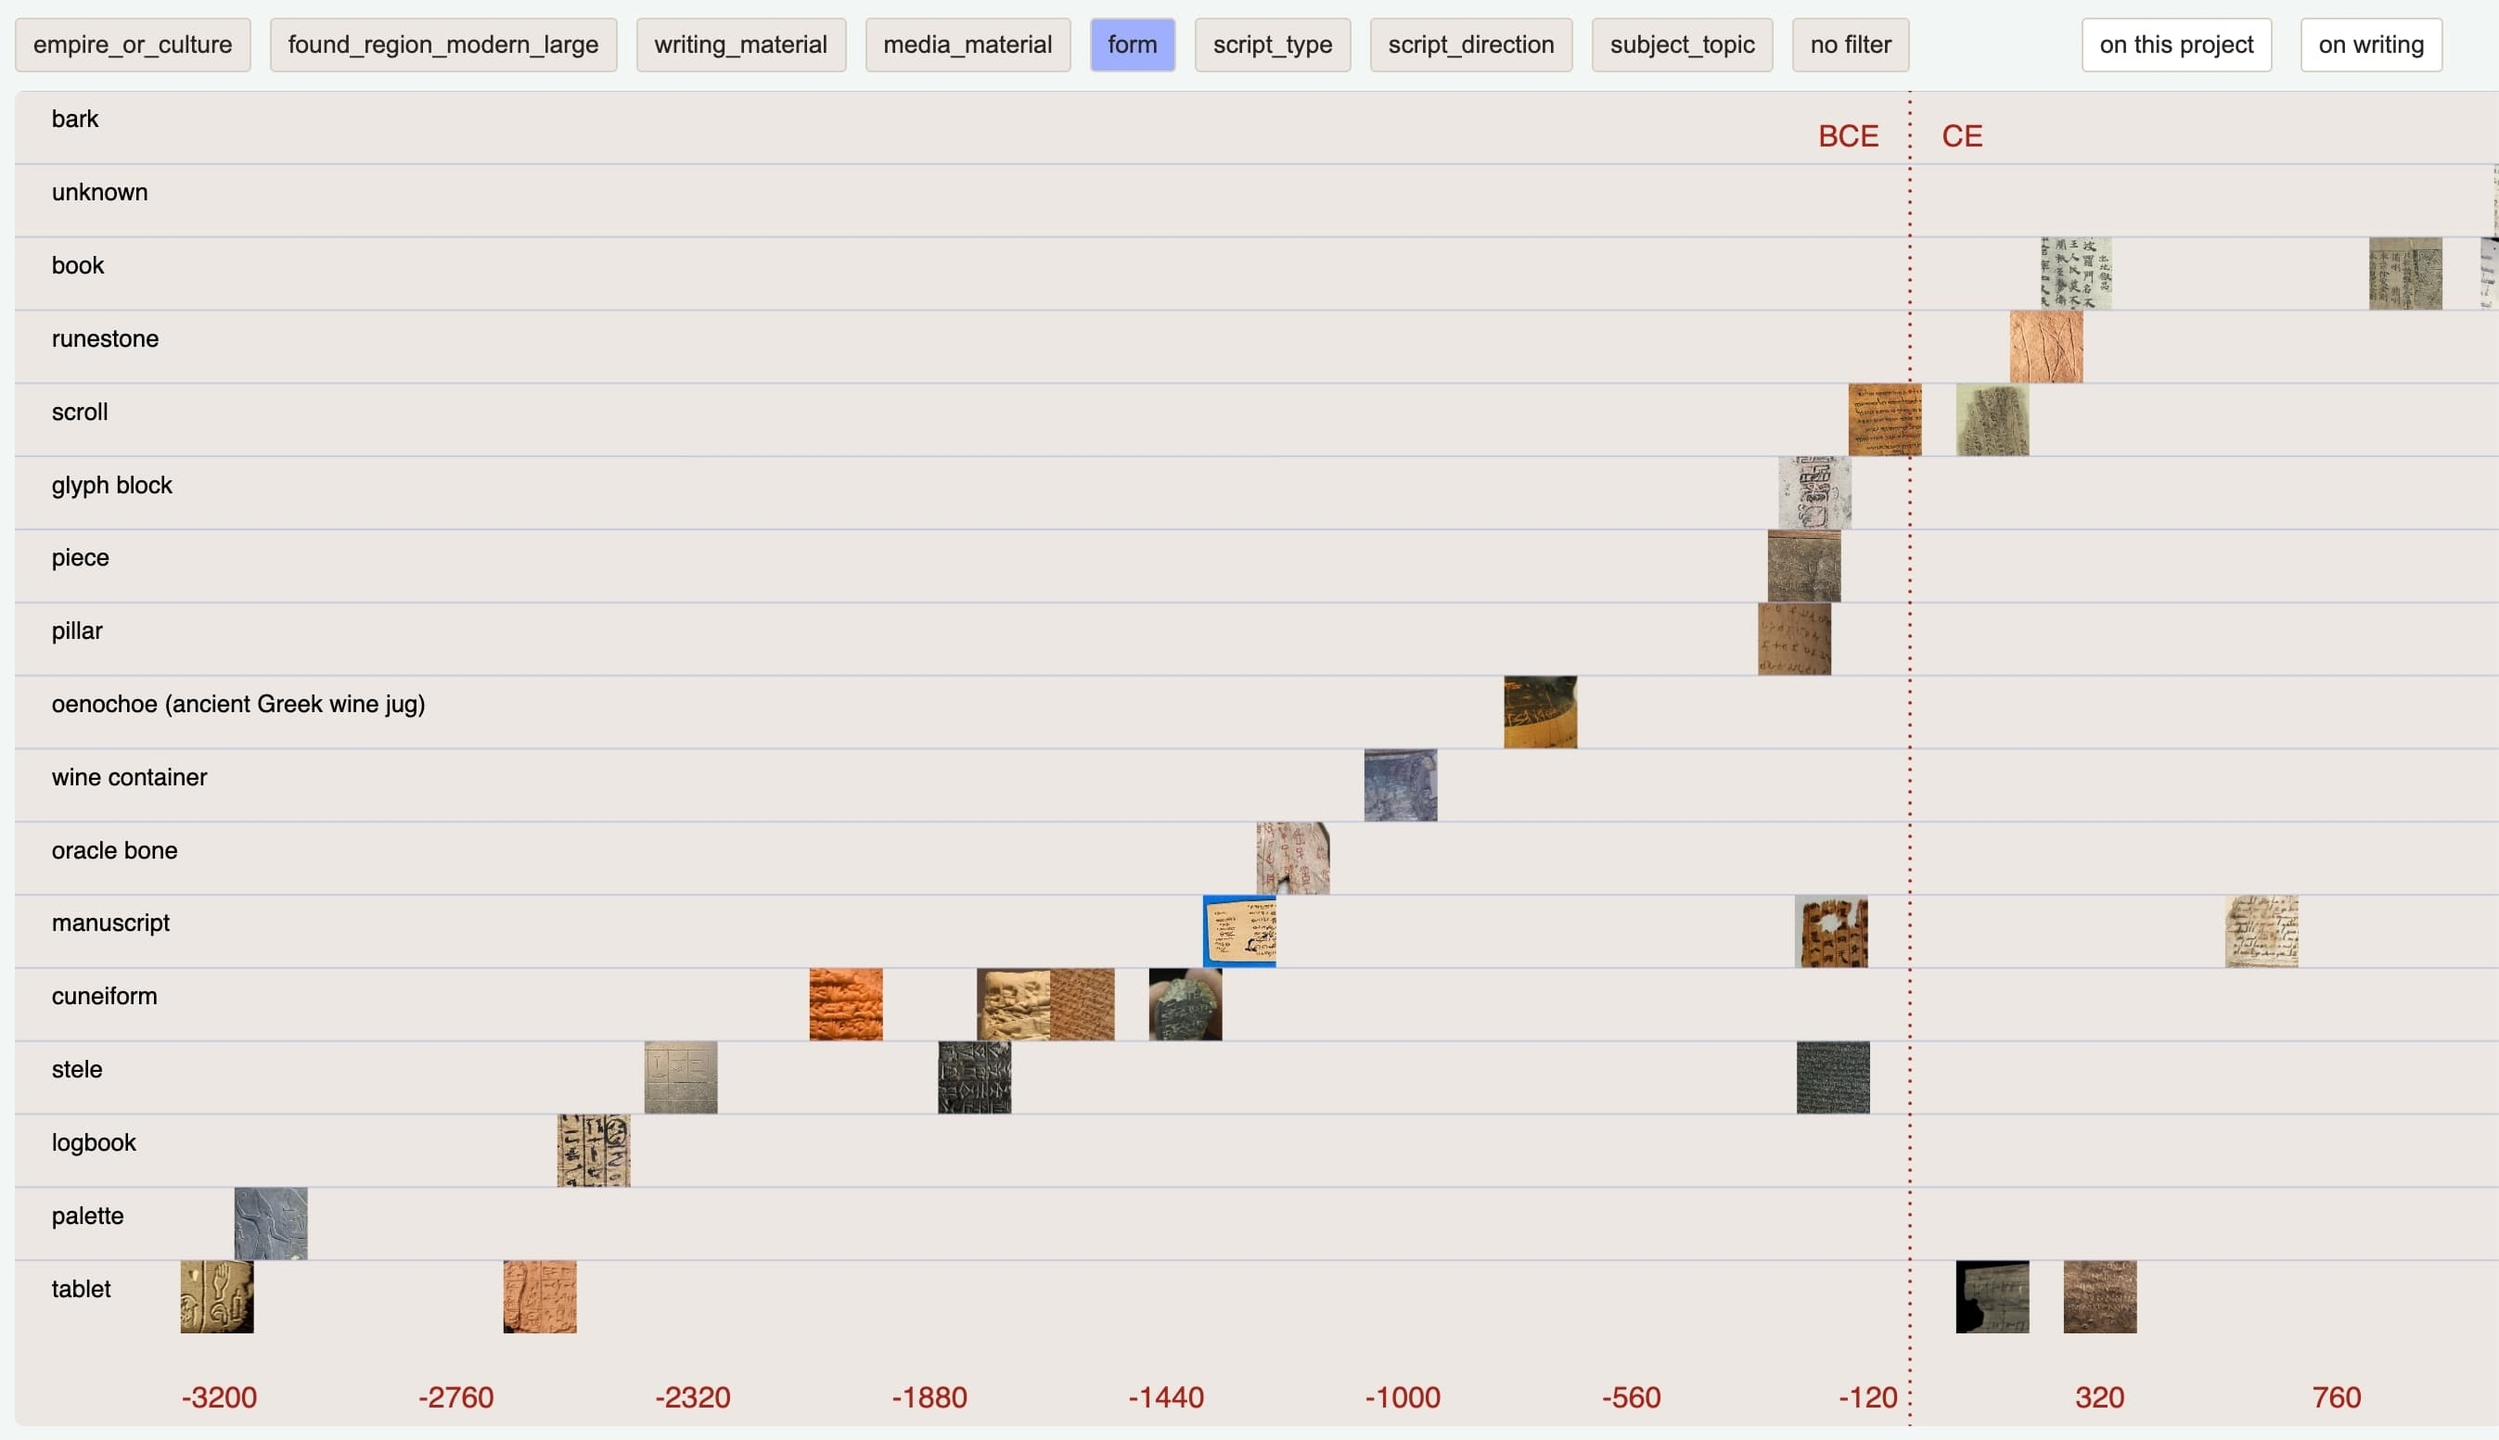
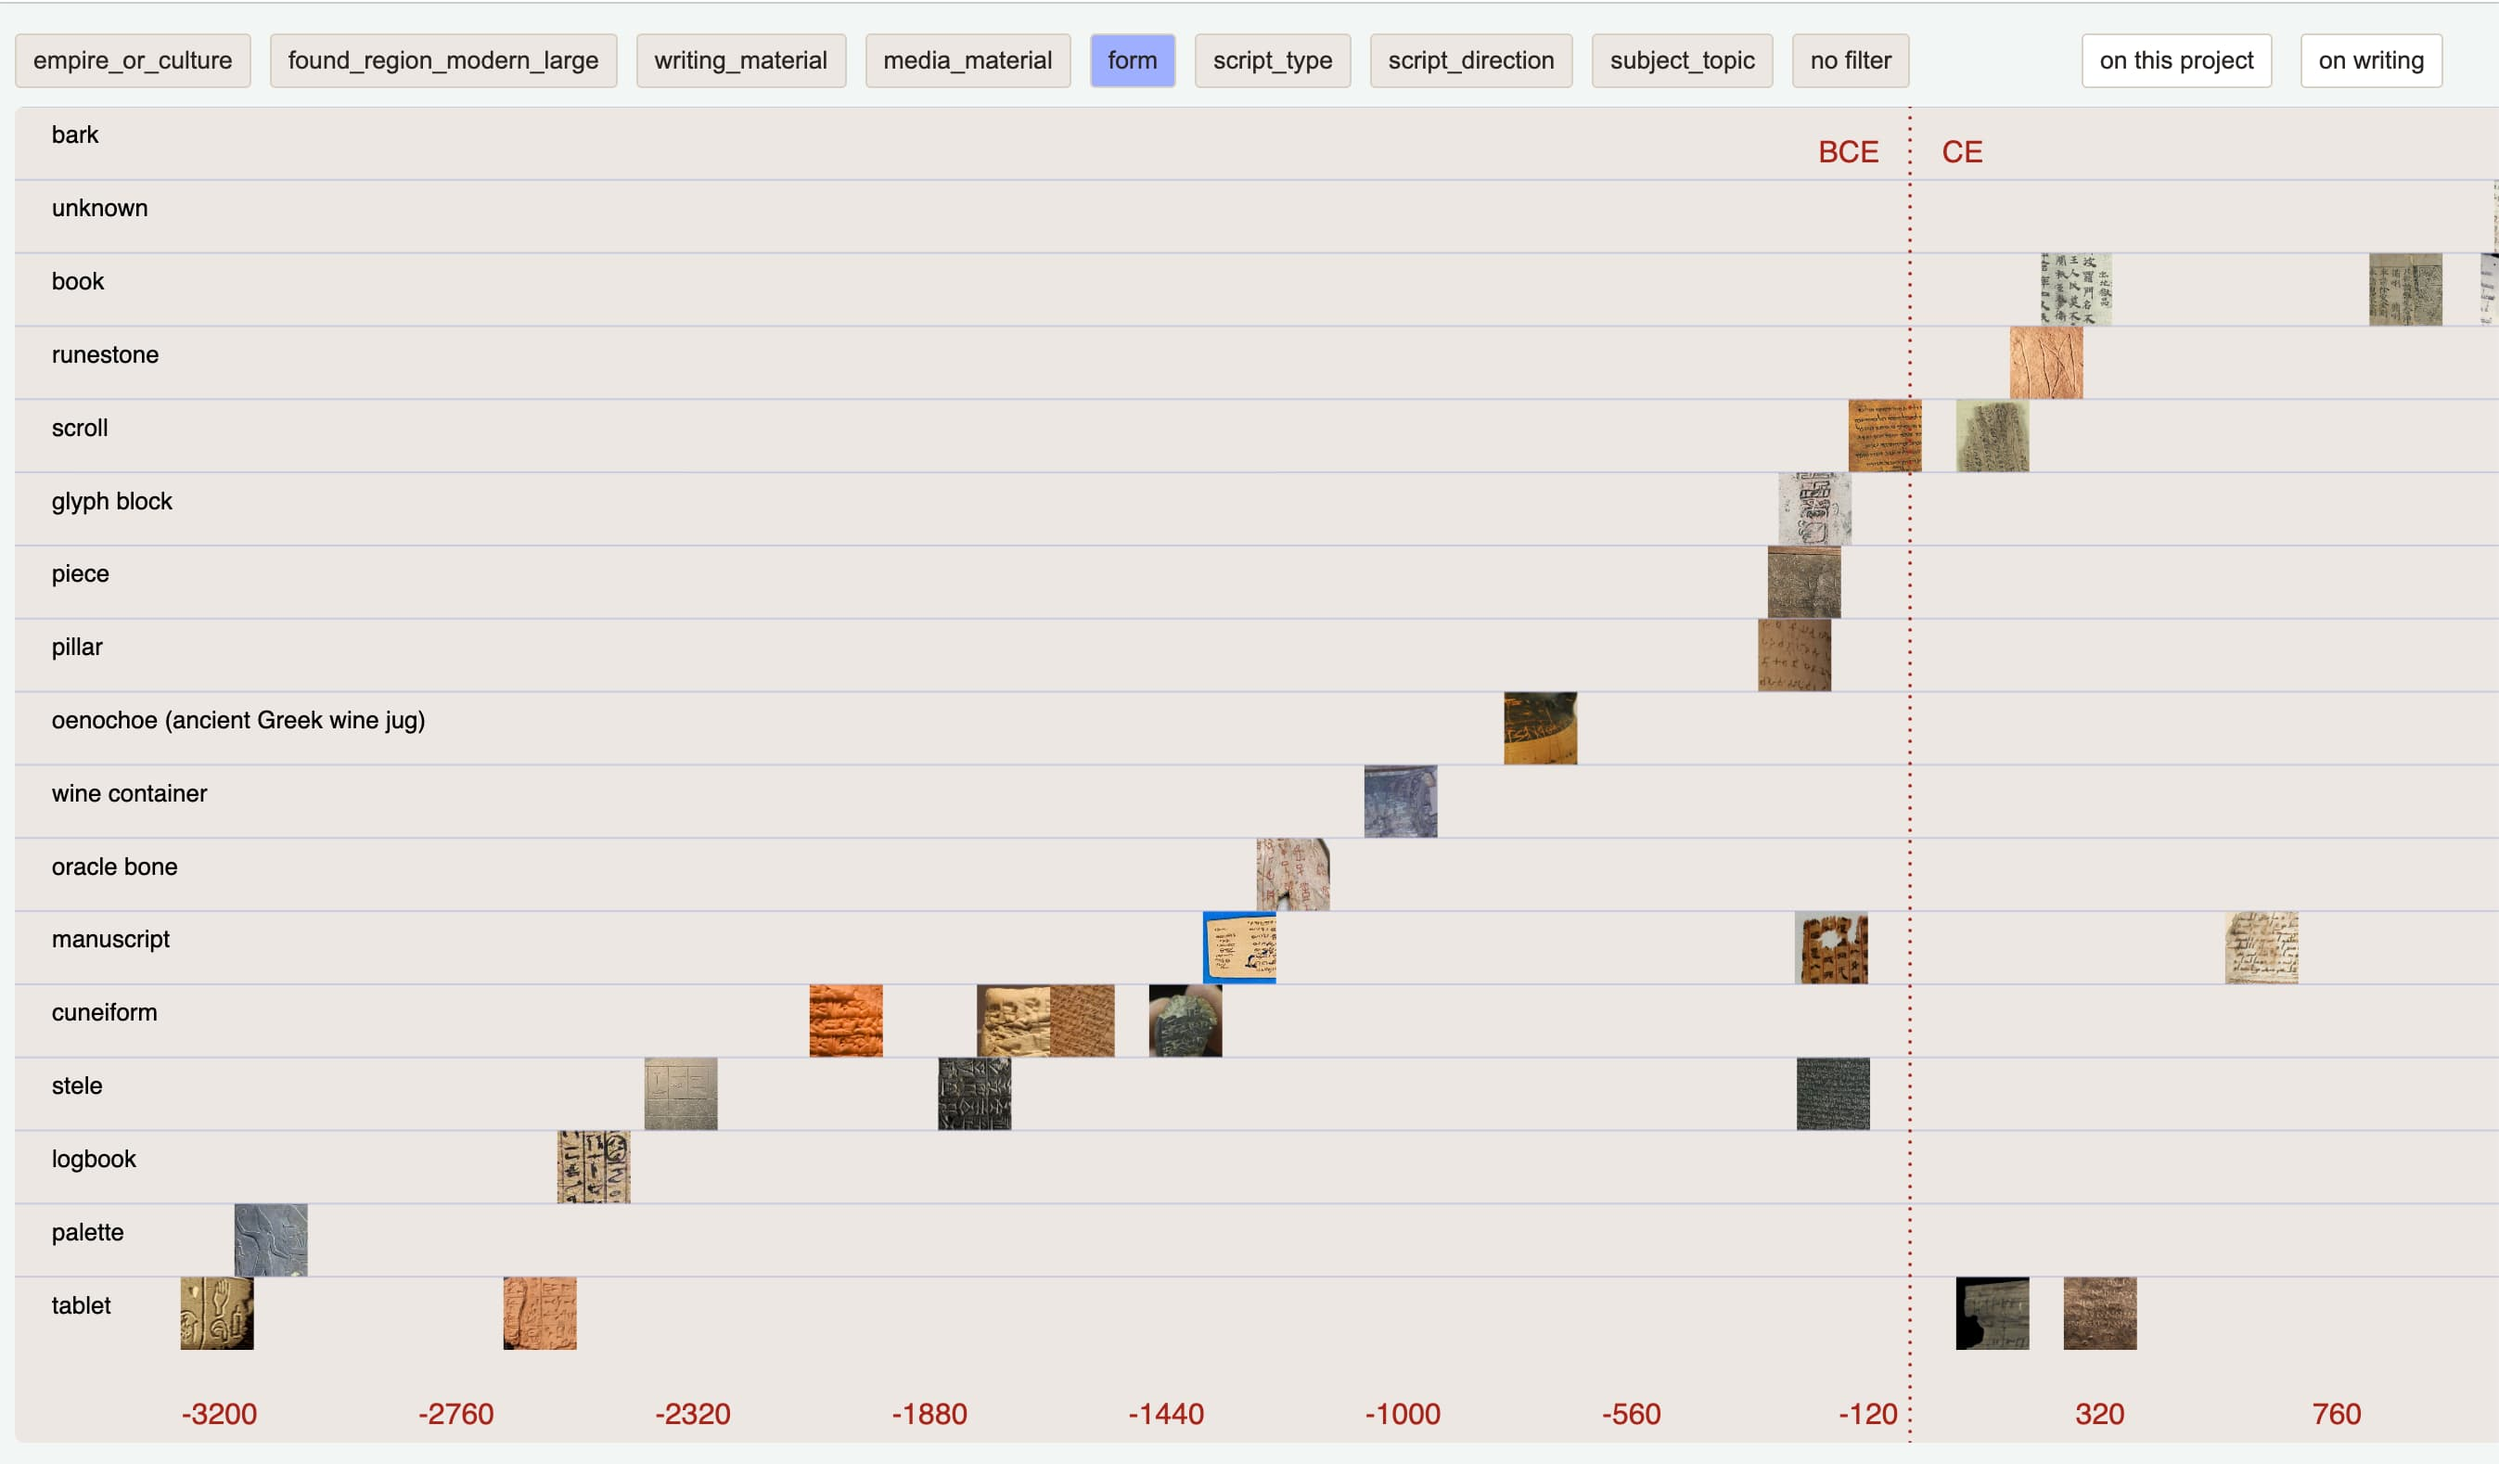
add more outlines

diff --git a/some_old_writings/script.js b/some_old_writings/script.js
@@ -293,6 +293,9 @@ var filters = d3.select("body")
                 var uniqueCategories = Object.keys(obj).filter(k => k !== 'yHeight')
                 var rowHeight = filter == "none" ? imageWidth : obj.yHeight   // single source of truth
 
+                var imgInset = Math.max(3, rowHeight * 0.12)
+                var imgSize = rowHeight - imgInset * 2
+
                 svg
                     .selectAll(".yLines")
                     .data(uniqueCategories)
@@ -320,6 +323,17 @@ var filters = d3.select("body")
                     .attr('stroke-dasharray', '2 4')
                     .attr('opacity', 0.8)
 
+                var timelineBorders = svg.selectAll(".image-border")
+                    .data(data)
+                    .join('rect')
+                    .attr("class", "image-border")
+                    .attr("fill", "none")
+                    .attr("stroke", "#a8241b")
+                    .attr("stroke-width", 2)
+                    .attr("rx", rowHeight * 0.1)
+                    .style("filter", "url(#squigglyBorder)")
+                    .lower()
+
                 var timeline = svg.selectAll("image")
                     .data(data)
                     .join('svg:image')
@@ -329,13 +343,14 @@ var filters = d3.select("body")
                         if (d._hovering) return
                         d._hovering = true
 
-                        let scaleFactor = imageZoomWidth / rowHeight
+                        let scaleFactor = imageZoomWidth / imgSize   // ← changed from rowHeight to imgSize
                         d3.select(this)
                             .style("transform", `scale(${scaleFactor})`)
                             .classed("top-layer", true)
                             .raise()
 
                         let bbox = this.getBBox()
+
                         let scaledWidth = bbox.width * scaleFactor
                         let scaledHeight = bbox.height * scaleFactor
                         let centerX = bbox.x + bbox.width / 2
@@ -399,54 +414,53 @@ var filters = d3.select("body")
                             .lower()
                     })
                     .on("click", function(e,d) {
-                    d3.selectAll(".description").remove();
+                        d3.selectAll(".description").remove();
 
-                    var modalDiv = d3.select("body").append("div")
-                        .attr("class", "description")
-                        .style("opacity", 1)
-                        .html(
-                            `<div class='modal-outline-wrapper'><div class='modal-content'><span class='close' onclick='closeModal()'>&times;</span><div class='flex-container'><div class='modal-img-container'><img class='modal-image' src='${image_names[data.indexOf(d)]}' /></div> <div class="modal-text"><b>${d.name}</b><br/> ${d.date} <br/><br/><div class="modal-text-content">Ruling state: ${d.empire_or_culture} <br/> ${d.period} <br/> Found in: ${d.found_region_origin}<br/> Currently in: ${d.current_city}, ${d.current_country}<br/><br/>Script type: ${d.script_type}<br/>Reading direction: ${d.script_direction}<br/><br/>Distance between origin and current location: ${d.distance_from_origin_km} km<br/><br/> ${d.description} <br/><br/>source(s):<br/>${d.source_url}<br/>${d.img_or_source2_url}<div class="modal-text-fade"></div></div><button class="see-more-btn" onclick="toggleModalText(this)">See more</button></div></div></div></div>`
-                            )
-                        .style("left", (d.x + 50 + "px"))
-                        .style("top", (d.y - 50 +"px"))
-                        .classed('modal', true)
-                        .style('display','flex')
-                        .on("click", function(event) {
-                            // only close if the click landed directly on the backdrop (this element),
-                            // not on the modal card or anything inside it
-                            if (event.target === this) {
-                                closeModal()
+                        var modalDiv = d3.select("body").append("div")
+                            .attr("class", "description")
+                            .style("opacity", 1)
+                            .html(
+                                `<div class='modal-outline-wrapper'><div class='modal-content'><span class='close' onclick='closeModal()'>&times;</span><div class='flex-container'><div class='modal-img-container'><img class='modal-image' src='${image_names[data.indexOf(d)]}' /></div> <div class="modal-text"><b>${d.name}</b><br/> ${d.date} <br/><br/><div class="modal-text-content">Ruling state: ${d.empire_or_culture} <br/> ${d.period} <br/> Found in: ${d.found_region_origin}<br/> Currently in: ${d.current_city}, ${d.current_country}<br/><br/>Script type: ${d.script_type}<br/>Reading direction: ${d.script_direction}<br/><br/>Distance between origin and current location: ${d.distance_from_origin_km} km<br/><br/> ${d.description} <br/><br/>source(s):<br/>${d.source_url}<br/>${d.img_or_source2_url}<div class="modal-text-fade"></div></div><button class="see-more-btn" onclick="toggleModalText(this)">See more</button></div></div></div></div>`
+                                )
+                            .style("left", (d.x + 50 + "px"))
+                            .style("top", (d.y - 50 +"px"))
+                            .classed('modal', true)
+                            .style('display','flex')
+                            .on("click", function(event) {
+                                // only close if the click landed directly on the backdrop (this element),
+                                // not on the modal card or anything inside it
+                                if (event.target === this) {
+                                    closeModal()
+                                }
+                            })
+
+                        setTimeout(() => {
+                            var contentEl = modalDiv.select(".modal-text-content").node()
+                            var button = modalDiv.select(".see-more-btn").node()
+                            var fade = modalDiv.select(".modal-text-fade").node()
+
+                            if (contentEl.scrollHeight <= contentEl.clientHeight) {
+                                button.style.display = "none"
+                                fade.style.display = "none"
                             }
-                        })
-
-                    setTimeout(() => {
-                        var contentEl = modalDiv.select(".modal-text-content").node()
-                        var button = modalDiv.select(".see-more-btn").node()
-                        var fade = modalDiv.select(".modal-text-fade").node()
-
-                        if (contentEl.scrollHeight <= contentEl.clientHeight) {
-                            button.style.display = "none"
-                            fade.style.display = "none"
-                        }
-                    }, 0)
-                })
+                        }, 0)
+                    })
                     .transition()
                     .duration(200)
-                    .attr("height", rowHeight)
-                    .attr("width", rowHeight)
-                    .attr("x",function(d){ 
-                        return filter == "none" ? timeScale(d.date_estimate) + 40 : timeScale(d.date_estimate) + rowHeight
+                    .attr("height", imgSize)
+                    .attr("width", imgSize)
+                    .attr("x", function(d){ 
+                        let baseX = filter == "none" ? timeScale(d.date_estimate) + 40 : timeScale(d.date_estimate) + rowHeight
+                        return baseX + imgInset
                     })
-                    .attr("y",(d) => filter == "none" ? svgHeight/2 : svgHeight - (obj[d[filter]]) - (rowHeight))
-                    .attr("height", rowHeight)
-                    .attr("width", rowHeight)
-                    .attr("x",function(d){ 
-                        return filter == "none" ? timeScale(d.date_estimate) + 40 : timeScale(d.date_estimate) + rowHeight
+                    .attr("y", (d) => {
+                        let baseY = filter == "none" ? svgHeight/2 : svgHeight - (obj[d[filter]]) - (rowHeight)
+                        return baseY + imgInset
                     })
-                    .attr("y",(d) => filter == "none" ? svgHeight/2 : svgHeight - (obj[d[filter]]) - (rowHeight))
 
-                timelineBorders
-                    .transition()
+                    timelineBorders
+                        .transition()
+
                     .duration(200)
                     .attr("width", rowHeight)
                     .attr("height", rowHeight)
@@ -455,7 +469,6 @@ var filters = d3.select("body")
                         return filter == "none" ? timeScale(d.date_estimate) + 40 : timeScale(d.date_estimate) + rowHeight
                     })
                     .attr("y",(d) => filter == "none" ? svgHeight/2 : svgHeight - (obj[d[filter]]) - (rowHeight))
-
                 svg.select(".row_label").remove()
 
                 svg.selectAll(".row_label")

diff --git a/some_old_writings/style.css b/some_old_writings/style.css
@@ -168,6 +168,7 @@ img {
 
 .modal-text b {
     font-size: 18px;
+    margin-bottom: 10px;
 }
 
 .modal-text {
